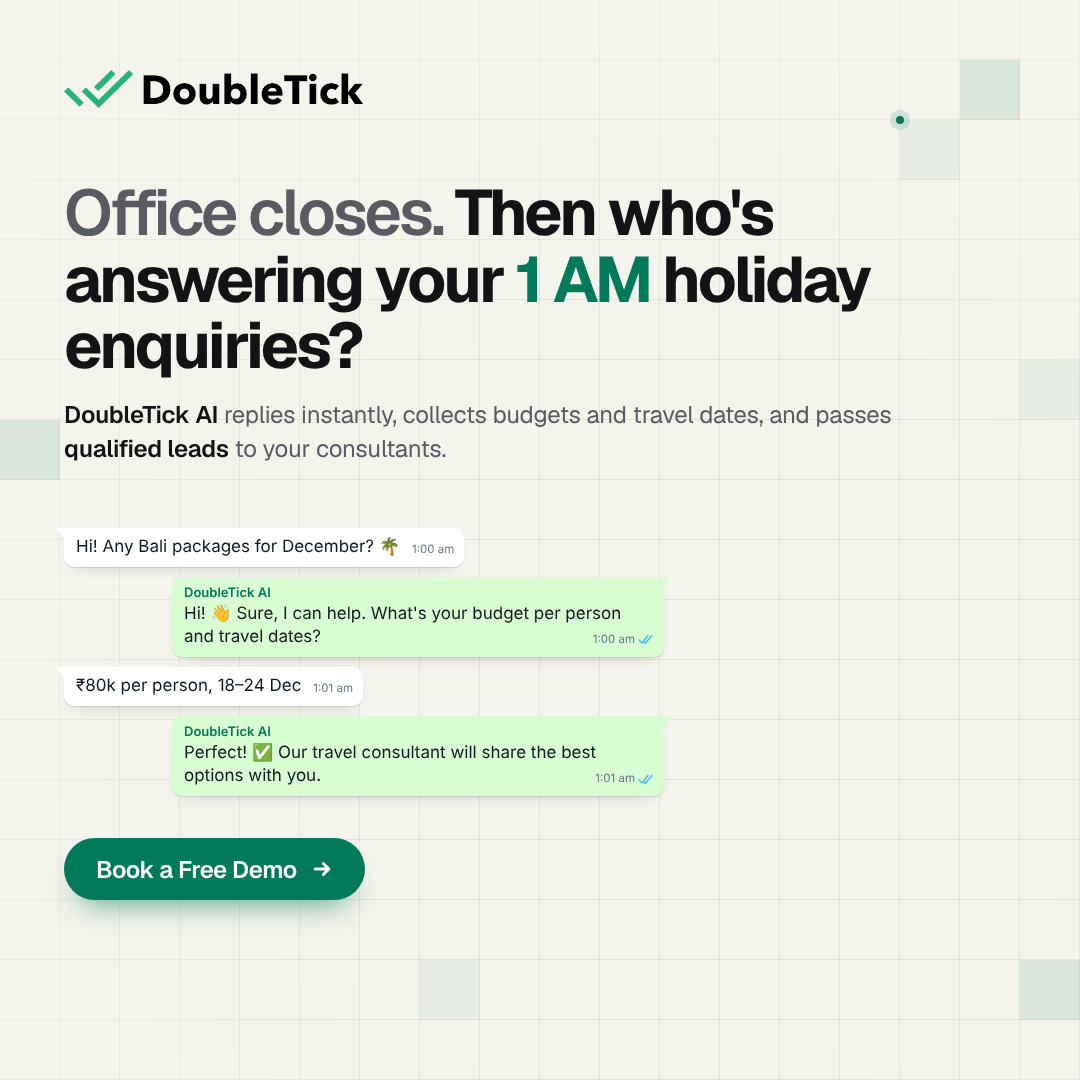
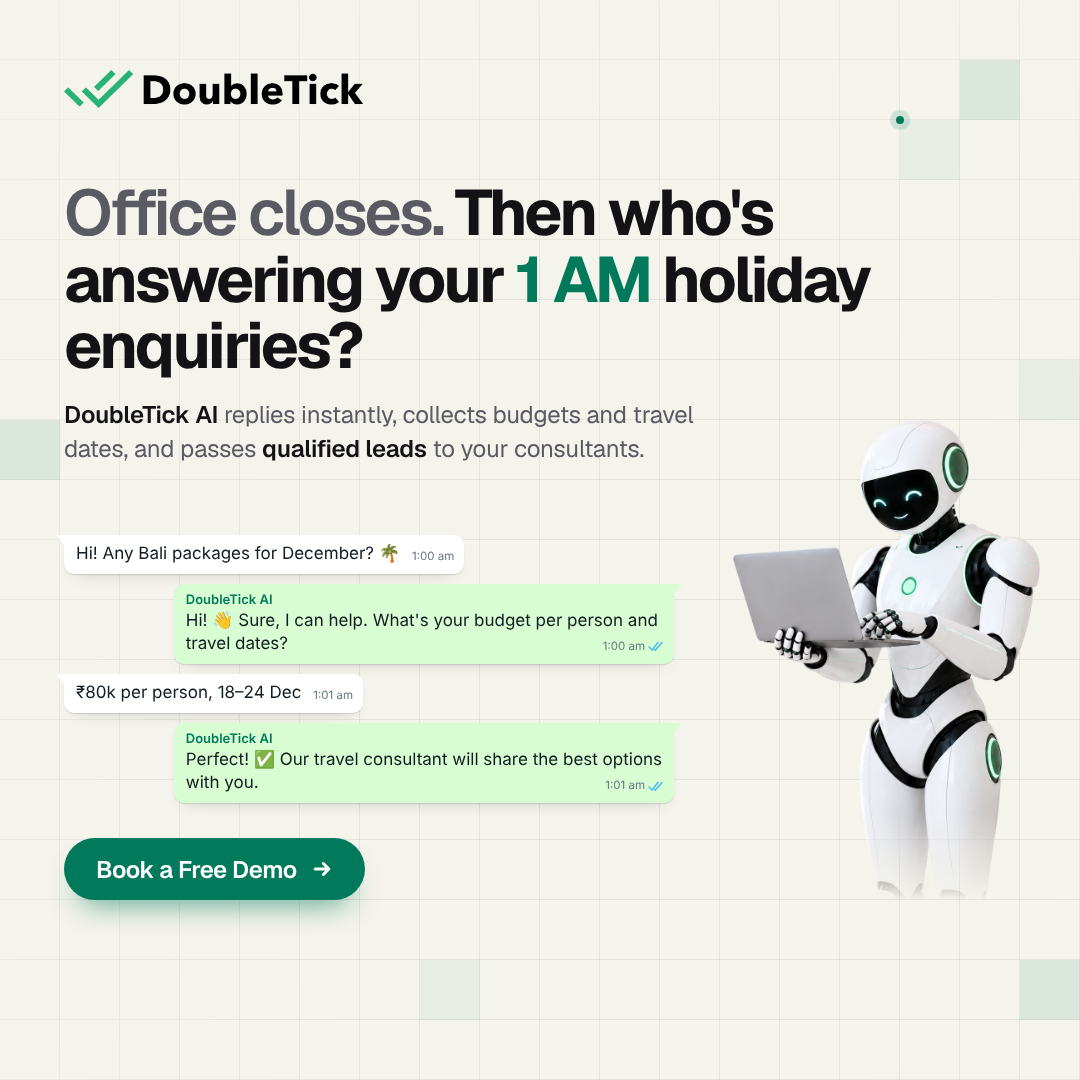
feat: add robot illustration to 1 AM ad
Claude-Session: https://claude.ai/code/session_01U68wzeZAut9FRgfZMxNXRM

diff --git a/ads/doubletick-1am-holiday/index.html b/ads/doubletick-1am-holiday/index.html
@@ -45,11 +45,11 @@
   .headline { isolation: isolate; position: absolute; top: 180px; left: 64px; width: 950px; font-weight: 700; font-size: 64px; line-height: 1.04; letter-spacing: -0.045em; }
   .headline .muted { color: var(--ink-2); font-weight: 600; }
   .headline .hl { color: var(--green); white-space: nowrap; }
-  .sub { position: absolute; top: 398px; left: 64px; width: 900px; font-size: 24px; line-height: 1.4; color: var(--ink-2); letter-spacing: -0.01em; }
+  .sub { position: absolute; top: 398px; left: 64px; width: 640px; font-size: 24px; line-height: 1.4; color: var(--ink-2); letter-spacing: -0.01em; }
   .sub b { color: var(--ink); font-weight: 600; }
 
   /* ---------- WhatsApp messages ---------- */
-  .wa-msgs { position: absolute; left: 64px; top: 502px; width: 600px; height: 320px; display: flex; flex-direction: column; justify-content: center; gap: 10px; font-family: "Inter", "Segoe UI", Helvetica, Arial, sans-serif; }
+  .wa-msgs { position: absolute; left: 64px; top: 516px; width: 610px; height: 306px; display: flex; flex-direction: column; justify-content: center; gap: 10px; font-family: "Inter", "Segoe UI", Helvetica, Arial, sans-serif; }
   .b { position: relative; max-width: 82%; padding: 7px 10px 9px 12px; border-radius: 10px; font-size: 17px; line-height: 1.35; color: #111B21; box-shadow: 0 1px 1px rgba(11,20,26,0.12), 0 8px 18px -12px rgba(11,20,26,0.25); }
   .b .meta { float: right; margin: 7px 0 -4px 12px; font-size: 11.5px; color: #667781; display: inline-flex; align-items: center; gap: 3px; }
   .b .sender { display: block; font-size: 13px; font-weight: 600; color: #007A5A; margin-bottom: 1px; }
@@ -59,7 +59,7 @@
   .b.out::before { content: ""; position: absolute; right: -8px; top: 0; border-left: 8px solid #D9FDD3; border-bottom: 10px solid transparent; }
 
   /* ---------- bot ---------- */
-  .bot { position: absolute; right: 0; bottom: 180px; width: 470px; height: 470px; object-fit: contain; mix-blend-mode: multiply; }
+  .bot { position: absolute; right: 40px; top: 420px; height: 480px; width: auto; -webkit-mask-image: linear-gradient(to bottom, #000 82%, transparent 100%); }
 
   /* ---------- footer ---------- */
   .footer { position: absolute; left: 64px; bottom: 180px; display: flex; align-items: center; }
@@ -98,7 +98,7 @@
   </div>
 
   <!-- bot -->
-  <img class="bot" src="bot.png" alt="" onerror="this.style.display='none'" />
+  <img class="bot" src="bot.png" alt="" />
 
   <!-- footer -->
   <div class="footer">
